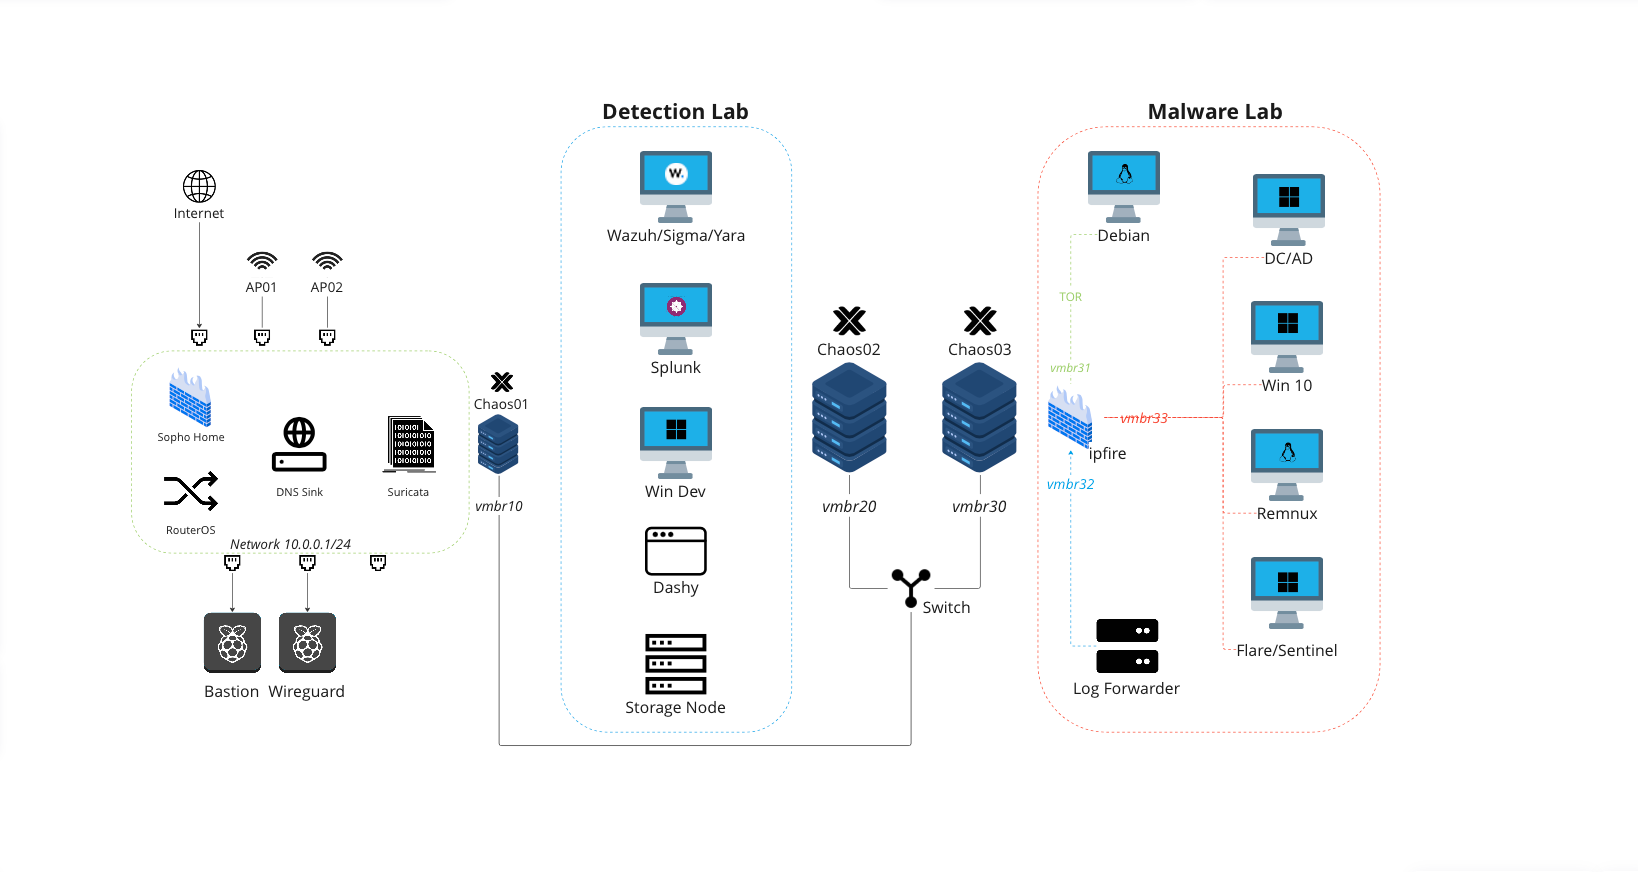
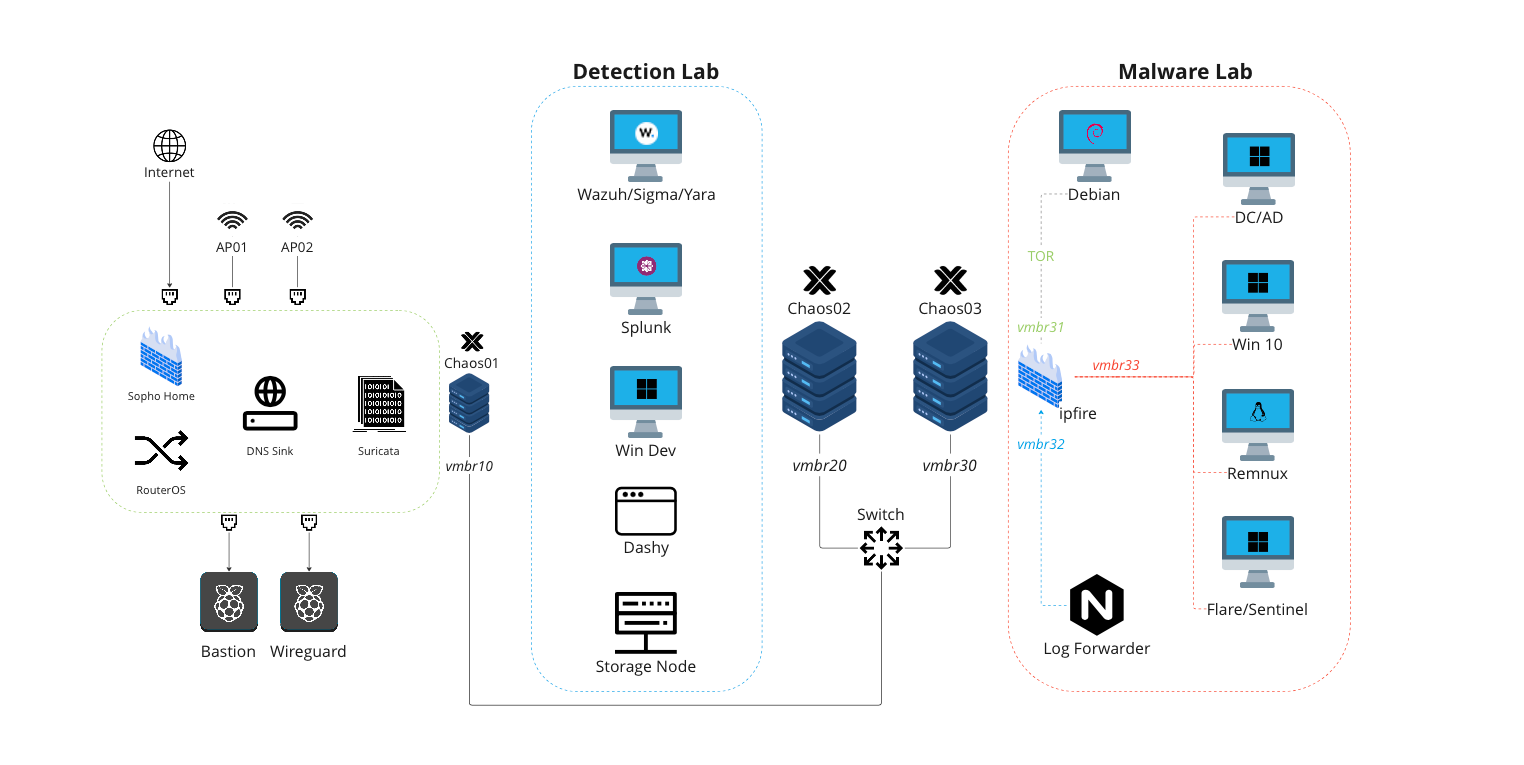
Updated home lab

diff --git a/_posts/2023-09-10-home-lab.md b/_posts/2023-09-10-home-lab.md
@@ -2,15 +2,16 @@
 title: Home Lab
 date: 2023-09-10 11:00:00 +0530
 categories: [Lab]
-tags: [architecture]
+tags: [lab]
 ---
 
 ![](assets/images/home_lab/home_lab.png)
 
 ## Overview
-I am planning to combine all my scattered homelab setup into some niche architecture, which has both malware analysis/development and threat detection. I used one old Laptop and and a Dell Micro. The specs are sufficient for my requirements. I'm Using [Proxmox](https://www.proxmox.com/en/proxmox-virtual-environment/overview) for virtualization as it's an open-source hypervisor and has all features like cloning, snapshot, backup, and network management.
+I am planning to combine all my scattered home lab setup into some niche architecture, which has both malware analysis/development and threat detection. I used one old Laptop and a Dell Micro. The specs are sufficient for my requirements. I'm using [Proxmox](https://www.proxmox.com/en/proxmox-virtual-environment/overview) for virtualization as it's an open-source hypervisor and has all features like cloning, snapshot, backup, and network management.
 
 ## Requirement
+
 | Name       | Core | RAM (GB) | Disk (GB) | Remark   |
 |------------|------|----------|-----------|----------|
 | Asus PN41  | 2    | 8        | 512       | Optional |
@@ -22,4 +23,4 @@ I am planning to combine all my scattered homelab setup into some niche architec
 ## Description
 The Malware Lab setup includes Windows as the target machine, Active Directory, Windows machine with Flare and Sentinel configured and REMnux. Logs from all hosts will be forwarded to Wazuh and Splunk for Analysis and Detection. With Splunk, we can analyse all raw logs and Wazuh will be configured with Sigma/Yara for detection along with its native rule. Also, thinking of putting a network tap with Suricata.
 
-This will get enhance as we move forward and will write all the setup and configuration in a separate article.
+This will get enhanced as we move forward and will write all the setup and configuration in a separate article.

diff --git a/_posts/2023-09-27-peek-into-packet.md b/_posts/2023-09-27-peek-into-packet.md
@@ -2,7 +2,7 @@
 title: Peek Into Packet
 date: 2023-09-27 19:00:00 +0530
 categories: [Lab]
-tags: [detection, nids, suricata]
+tags: [detection, nids, suricata,lab]
 ---
 
 ![](assets/images/peek_into_packet/1695761189501.jpg)

diff --git a/_posts/2024-03-23-netsupport-rat.md b/_posts/2024-03-23-netsupport-rat.md
@@ -2,7 +2,7 @@
 title: NetSupport RAT
 date: 2024-03-23 11:15:00 +0530
 categories: [Malware]
-tags: [rat, netsupport, decoding]
+tags: [rat, decoding, malware]
 ---
 
 
